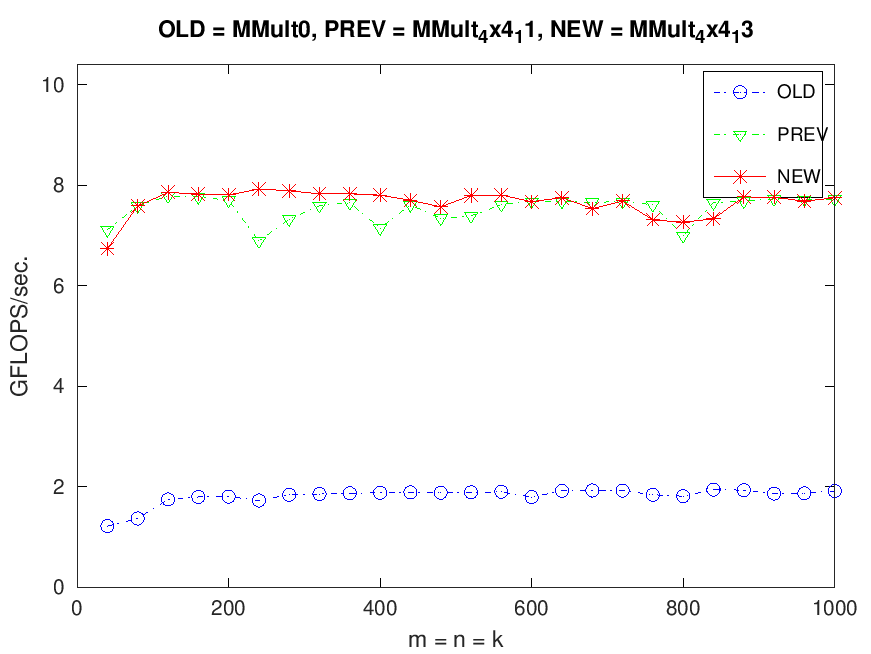
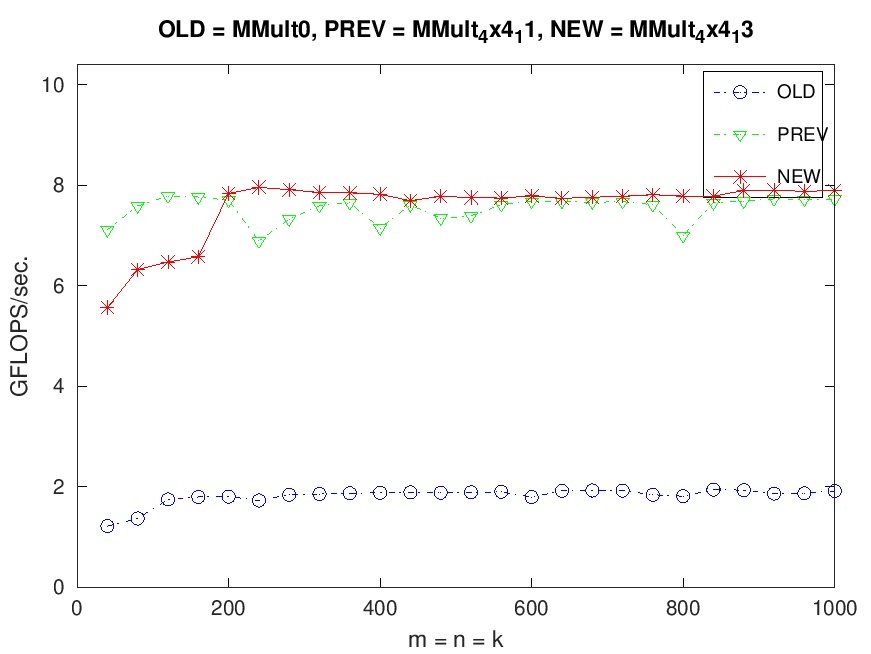
fix: forgot to use `a` in AddDot4x4()

diff --git a/src/HowToOptimizeGemm/output_MMult_4x4_13.m b/src/HowToOptimizeGemm/output_MMult_4x4_13.m
@@ -1,28 +1,28 @@
 version = 'MMult_4x4_13';
 MY_MMult = [
-40 6.736842e+00 2.664535e-15 
-80 7.585185e+00 7.105427e-15 
-120 7.854545e+00 1.065814e-14 
-160 7.824260e+00 1.421085e-14 
-200 7.804878e+00 2.131628e-14 
-240 7.924334e+00 2.486900e-14 
-280 7.889308e+00 2.842171e-14 
-320 7.827998e+00 3.552714e-14 
-360 7.828188e+00 4.973799e-14 
-400 7.800597e+00 4.973799e-14 
-440 7.699553e+00 4.973799e-14 
-480 7.568833e+00 6.039613e-14 
-520 7.795748e+00 6.394885e-14 
-560 7.802728e+00 6.750156e-14 
-600 7.671817e+00 7.460699e-14 
-640 7.751039e+00 8.171241e-14 
-680 7.534102e+00 9.237056e-14 
-720 7.685139e+00 1.101341e-13 
-760 7.308045e+00 1.065814e-13 
-800 7.264215e+00 8.881784e-14 
-840 7.328870e+00 1.065814e-13 
-880 7.766417e+00 1.030287e-13 
-920 7.760688e+00 1.207923e-13 
-960 7.681867e+00 1.278977e-13 
-1000 7.748574e+00 1.421085e-13 
+40 5.565217e+00 2.664535e-15 
+80 6.320988e+00 7.105427e-15 
+120 6.471910e+00 1.065814e-14 
+160 6.574639e+00 1.421085e-14 
+200 7.835455e+00 2.131628e-14 
+240 7.953970e+00 2.486900e-14 
+280 7.910631e+00 2.842171e-14 
+320 7.854267e+00 3.552714e-14 
+360 7.847279e+00 4.973799e-14 
+400 7.818704e+00 4.973799e-14 
+440 7.691905e+00 4.973799e-14 
+480 7.776395e+00 6.039613e-14 
+520 7.754260e+00 6.394885e-14 
+560 7.743381e+00 6.750156e-14 
+600 7.786590e+00 7.460699e-14 
+640 7.736284e+00 8.171241e-14 
+680 7.760113e+00 9.237056e-14 
+720 7.779728e+00 1.101341e-13 
+760 7.808807e+00 1.065814e-13 
+800 7.783284e+00 8.881784e-14 
+840 7.781536e+00 1.065814e-13 
+880 7.894489e+00 1.030287e-13 
+920 7.897444e+00 1.207923e-13 
+960 7.878536e+00 1.278977e-13 
+1000 7.891944e+00 1.421085e-13 
 ];

diff --git a/src/HowToOptimizeGemm/output_new.m b/src/HowToOptimizeGemm/output_new.m
@@ -1,28 +1,28 @@
 version = 'MMult_4x4_13';
 MY_MMult = [
-40 6.736842e+00 2.664535e-15 
-80 7.585185e+00 7.105427e-15 
-120 7.854545e+00 1.065814e-14 
-160 7.824260e+00 1.421085e-14 
-200 7.804878e+00 2.131628e-14 
-240 7.924334e+00 2.486900e-14 
-280 7.889308e+00 2.842171e-14 
-320 7.827998e+00 3.552714e-14 
-360 7.828188e+00 4.973799e-14 
-400 7.800597e+00 4.973799e-14 
-440 7.699553e+00 4.973799e-14 
-480 7.568833e+00 6.039613e-14 
-520 7.795748e+00 6.394885e-14 
-560 7.802728e+00 6.750156e-14 
-600 7.671817e+00 7.460699e-14 
-640 7.751039e+00 8.171241e-14 
-680 7.534102e+00 9.237056e-14 
-720 7.685139e+00 1.101341e-13 
-760 7.308045e+00 1.065814e-13 
-800 7.264215e+00 8.881784e-14 
-840 7.328870e+00 1.065814e-13 
-880 7.766417e+00 1.030287e-13 
-920 7.760688e+00 1.207923e-13 
-960 7.681867e+00 1.278977e-13 
-1000 7.748574e+00 1.421085e-13 
+40 5.565217e+00 2.664535e-15 
+80 6.320988e+00 7.105427e-15 
+120 6.471910e+00 1.065814e-14 
+160 6.574639e+00 1.421085e-14 
+200 7.835455e+00 2.131628e-14 
+240 7.953970e+00 2.486900e-14 
+280 7.910631e+00 2.842171e-14 
+320 7.854267e+00 3.552714e-14 
+360 7.847279e+00 4.973799e-14 
+400 7.818704e+00 4.973799e-14 
+440 7.691905e+00 4.973799e-14 
+480 7.776395e+00 6.039613e-14 
+520 7.754260e+00 6.394885e-14 
+560 7.743381e+00 6.750156e-14 
+600 7.786590e+00 7.460699e-14 
+640 7.736284e+00 8.171241e-14 
+680 7.760113e+00 9.237056e-14 
+720 7.779728e+00 1.101341e-13 
+760 7.808807e+00 1.065814e-13 
+800 7.783284e+00 8.881784e-14 
+840 7.781536e+00 1.065814e-13 
+880 7.894489e+00 1.030287e-13 
+920 7.897444e+00 1.207923e-13 
+960 7.878536e+00 1.278977e-13 
+1000 7.891944e+00 1.421085e-13 
 ];

diff --git a/src/HowToOptimizeGemm/MMult_4x4_13.c b/src/HowToOptimizeGemm/MMult_4x4_13.c
@@ -108,8 +108,9 @@ void AddDot4x4(int k, double* a, int lda, double* b, int ldb, double* c, int ldc
   b_p3_ptr = &B(0, 3);
 
   for (p = 0; p < k; p++) {
-    a_0p_vreg.v = _mm_load_pd((double *)&A(0, p)); // load 128-bits from mem_addr to m128d_dst
-    a_2p_vreg.v = _mm_load_pd((double *)&A(2, p));
+    a_0p_vreg.v = _mm_load_pd((double *)a); // load 128-bits from mem_addr to m128d_dst
+    a_2p_vreg.v = _mm_load_pd((double *)(a + 2));
+    a += 4;
 
     // b_p0_reg = *b_p0_ptr++;
     // b_p1_reg = *b_p1_ptr++;
